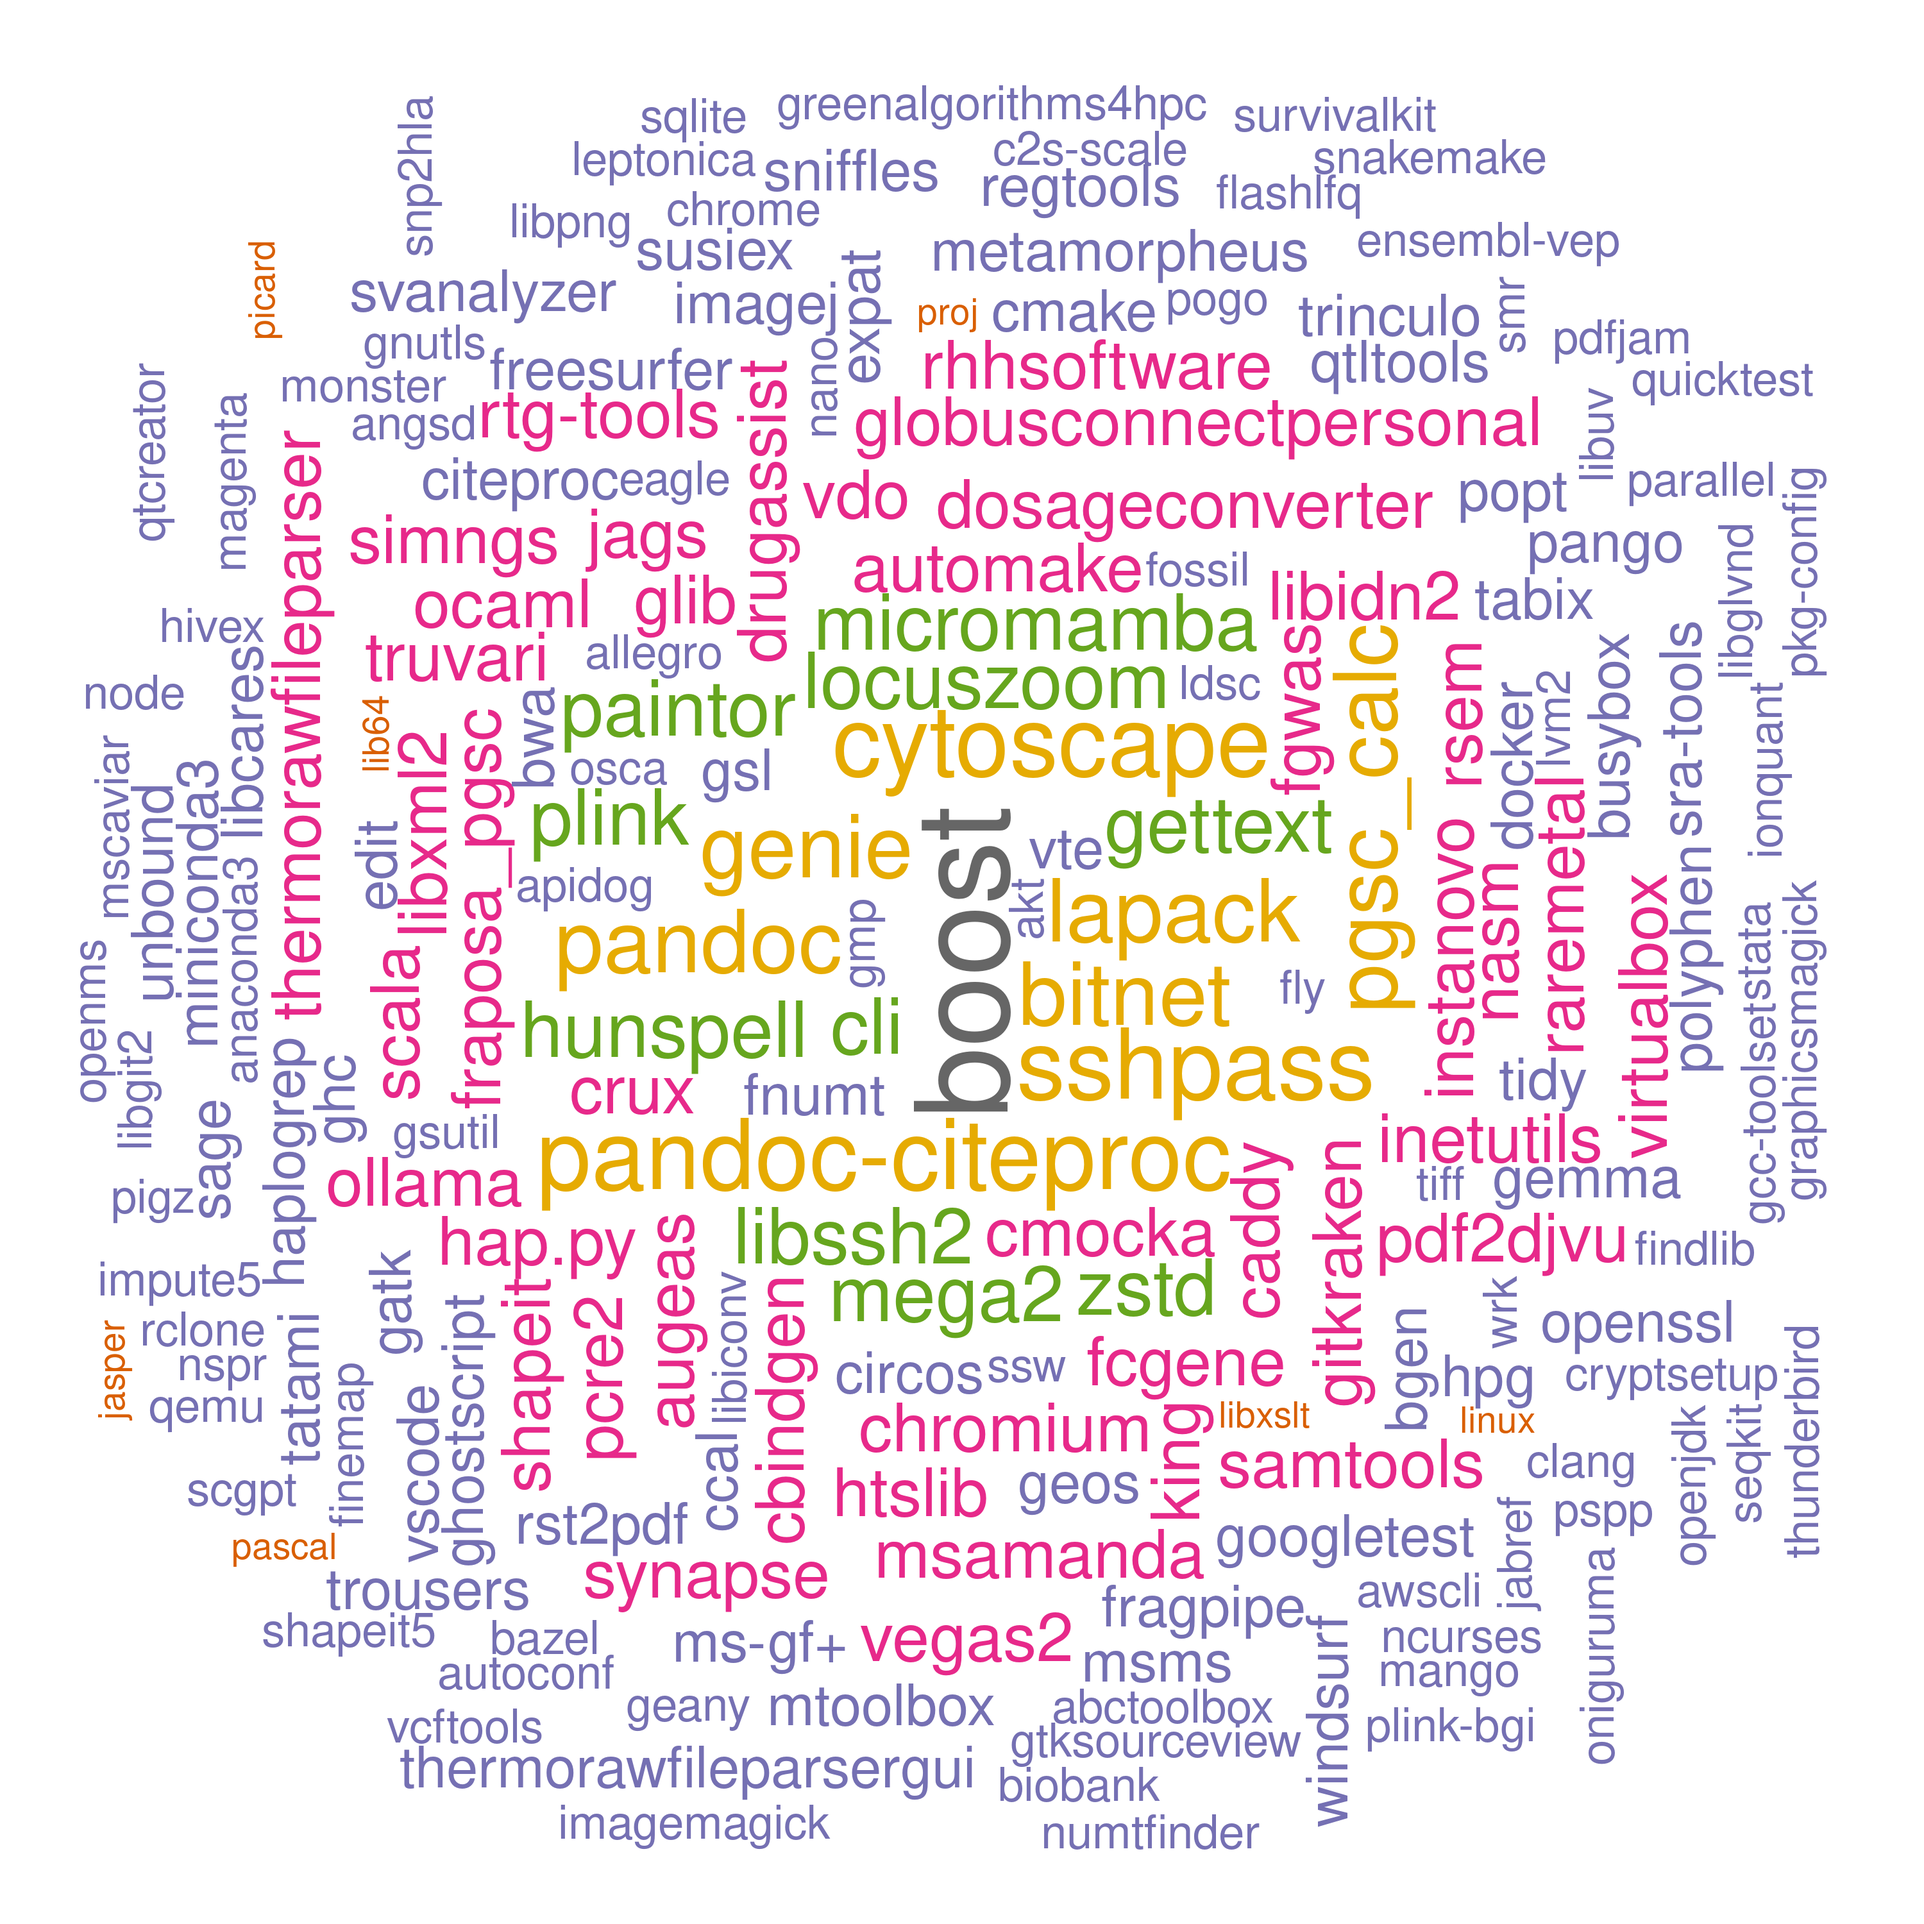
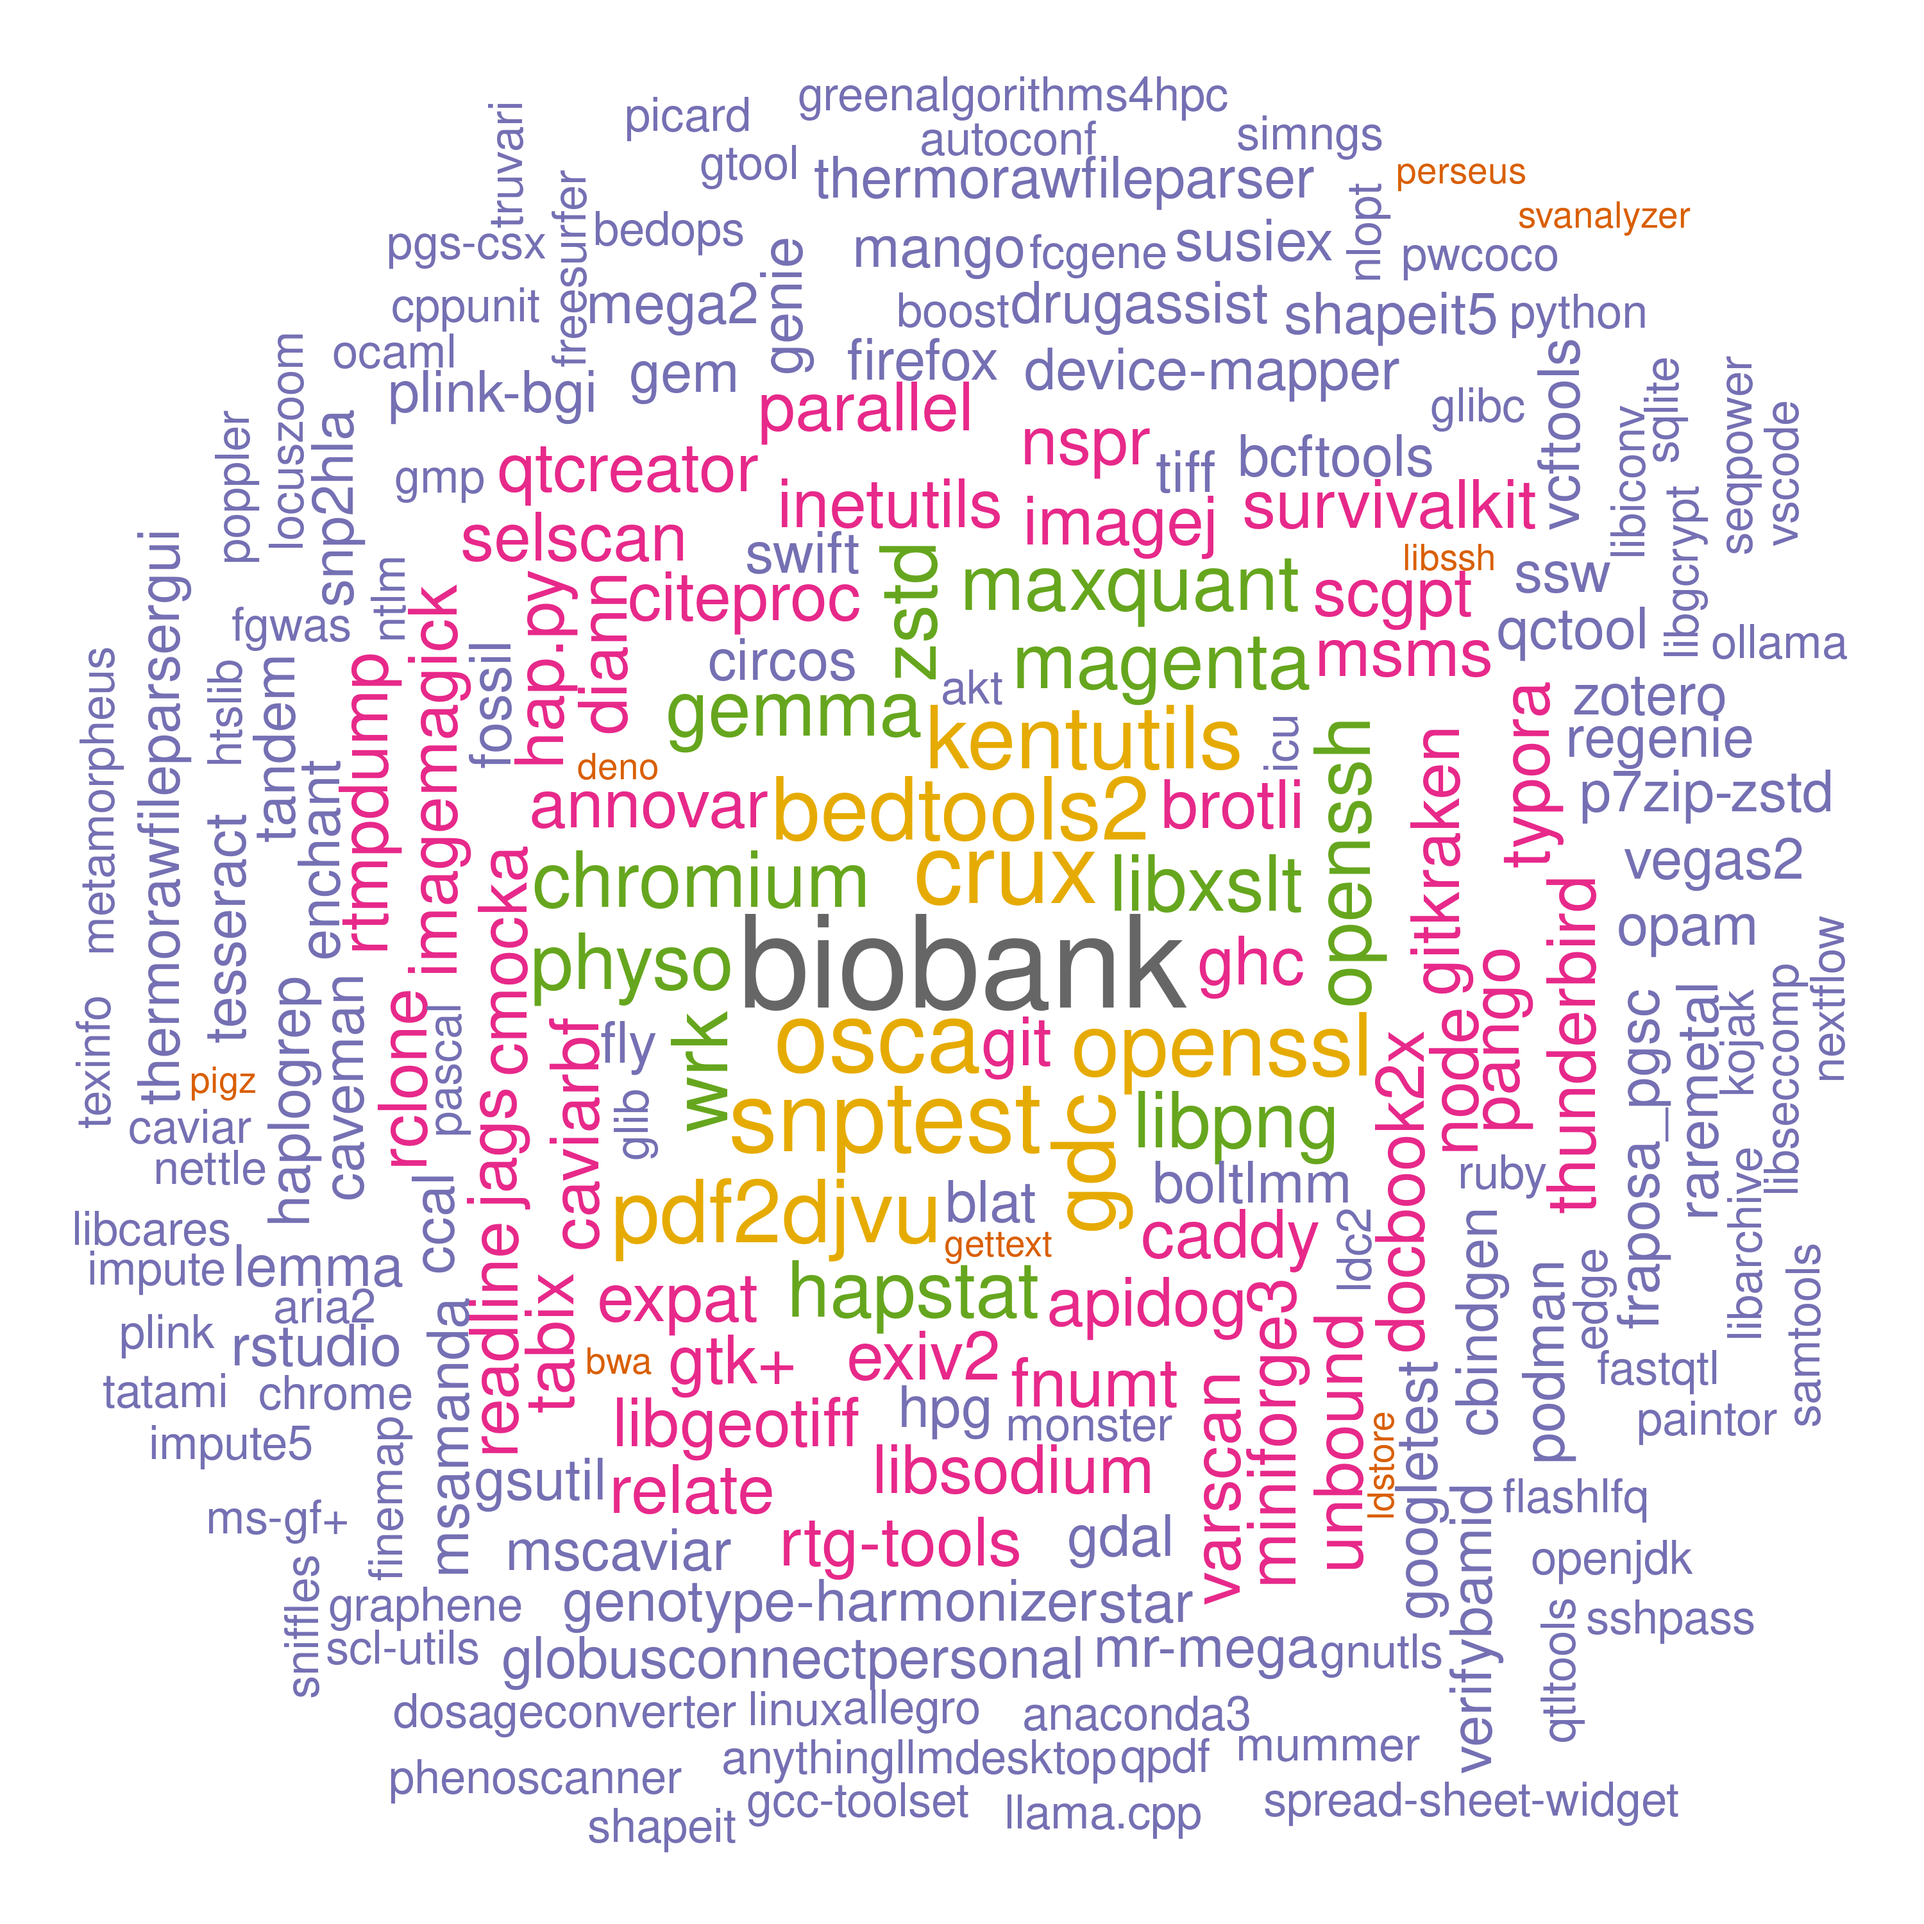
./

Changed region(s): [[0.031, 0.031, 0.961, 0.961]]

diff --git a/systems/ceuadmin.md b/systems/ceuadmin.md
@@ -83,25 +83,25 @@ The current list is as follows,
 [261] "qpdf"                   "qt"                     "qtcreator"              "QTLtools"
 [265] "quarto"                 "quicktest"              "R"                      "raremetal"
 [269] "rclone"                 "readline"               "regenie"                "regtools"
-[273] "RHHsoftware"            "RSEM"                   "rst2pdf"                "rstudio"
-[277] "rtg-tools"              "rtmpdump"               "ruby"                   "rust"
-[281] "sage"                   "samtools"               "Scala"                  "scGPT"
-[285] "scl-utils"              "selscan"                "seqkit"                 "SEQPower"
-[289] "shapeit"                "shapeit5"               "simNGS"                 "singularity"
-[293] "SMR"                    "snakemake"              "sniffles"               "SNP2HLA"
-[297] "snptest"                "spread-sheet-widget"    "spyder"                 "sqlite"
-[301] "sra-tools"              "sshpass"                "ssw"                    "STAR"
-[305] "stata"                  "SurvivalAnalysis"       "SurvivalKit"            "SuSiEx"
-[309] "SVanalyzer"             "Swift"                  "SYMPHONY"               "Synapse"
-[313] "tabix"                  "tandem"                 "tatami"                 "tesseract"
-[317] "texinfo"                "ThermoRawFileParser"    "ThermoRawFileParserGUI" "thunderbird"
-[321] "tidy"                   "tiff"                   "trinculo"               "trousers"
-[325] "truvari"                "Typora"                 "unbound"                "uv"
-[329] "vala"                   "VarScan"                "vcftools"               "vdo"
-[333] "VEGAS2"                 "verifyBamID"            "VirtualBox"             "VSCode"
-[337] "VSCodium"               "vte"                    "Windsurf"               "wine"
-[341] "wrk"                    "xpdf"                   "yaml-cpp"               "Zettlr"
-[345] "Zotero"                 "zstd"
+[273] "relate"                 "RHHsoftware"            "RSEM"                   "rst2pdf"
+[277] "rstudio"                "rtg-tools"              "rtmpdump"               "ruby"
+[281] "rust"                   "sage"                   "samtools"               "Scala"
+[285] "scGPT"                  "scl-utils"              "selscan"                "seqkit"
+[289] "SEQPower"               "shapeit"                "shapeit5"               "simNGS"
+[293] "singularity"            "SMR"                    "snakemake"              "sniffles"
+[297] "SNP2HLA"                "snptest"                "spread-sheet-widget"    "spyder"
+[301] "sqlite"                 "sra-tools"              "sshpass"                "ssw"
+[305] "STAR"                   "stata"                  "SurvivalAnalysis"       "SurvivalKit"
+[309] "SuSiEx"                 "SVanalyzer"             "Swift"                  "SYMPHONY"
+[313] "Synapse"                "tabix"                  "tandem"                 "tatami"
+[317] "tesseract"              "texinfo"                "ThermoRawFileParser"    "ThermoRawFileParserGUI"
+[321] "thunderbird"            "tidy"                   "tiff"                   "trinculo"
+[325] "trousers"               "truvari"                "Typora"                 "unbound"
+[329] "uv"                     "vala"                   "VarScan"                "vcftools"
+[333] "vdo"                    "VEGAS2"                 "verifyBamID"            "VirtualBox"
+[337] "VSCode"                 "VSCodium"               "vte"                    "Windsurf"
+[341] "wine"                   "wrk"                    "xpdf"                   "yaml-cpp"
+[345] "Zettlr"                 "Zotero"                 "zstd"
 ```
 
 These are wrapped up as :star::star::star: **[modules](https://modules.readthedocs.io/en/latest/index.html)** :star::star::star:.
@@ -448,6 +448,7 @@ Further information is avaiiable from **/usr/local/Cluster-Apps/ceuadmin/doc/ceu
     | 2025-09-01 | selscan/2.1                  | Genetics    |
     | ""         | angsd/0.940                  | Genetics    |
     | 2025-09-03 | hapstat/3.0                  | Genetics    |
+    | 2025-09-04 | relate/1.2.3                 | Genetics    |
 
     \* CEU or approved users only -- when not indicated can be found out from the folder associated with a module.
 

diff --git a/systems/setup.md b/systems/setup.md
@@ -477,6 +477,7 @@ All entries are ordered chronologically.
 | 2025-09-01 | selscan/2.1                      | Genetics[^selscan]    |
 | ""         | angsd/0.940                      | Genetics[^angsd]      |
 | 2025-09-03 | hapstat/3.0                      | Genetics[^hapstat]    |
+| 2025-09-04 | relate/1.2.3                     | Genetics[^relate]     |
 
 \* CEU or approved users only -- when not indicated can be found out from the folder associated with a module.
 
@@ -1991,3 +1992,7 @@ They are generated from script [setup.sh](setup.sh),
 [^hapstat]: **hapstat**
 
     See <https://cambridge-ceu.github.io/csd3/applications/hapstat.html>.
+
+[^relate]: **relate**
+
+    See <https://cambridge-ceu.github.io/csd3/applications/relate.html>.

diff --git a/applications/related.md b/applications/related.md
@@ -1,0 +1,16 @@
+---
+sort: 63
+layout: default
+---
+
+# relate
+
+Web, <https://myersgroup.github.io/relate/>
+
+## 1.2.3
+
+Firefox / 142.0 would lose part of the files, and chrome is used instead. Both dynamic and static distributions work well under CSD3.
+
+## Testing
+
+A well-organised `run-relate.sh` can be started from example/ directory.

diff --git a/applications/notes.md b/applications/notes.md
@@ -1,5 +1,5 @@
 ---
-sort: 78
+sort: 79
 ---
 
 # Notes on emsembl-vep

diff --git a/applications/VSCode.md b/applications/VSCode.md
@@ -1,5 +1,5 @@
 ---
-sort: 77
+sort: 78
 ---
 
 # Visual Studio code

diff --git a/applications/SurvivalGWAS_SV.md b/applications/SurvivalGWAS_SV.md
@@ -1,5 +1,5 @@
 ---
-sort: 73
+sort: 74
 ---
 
 # SurvivalGWAS_SV

diff --git a/applications/sra-tools.md b/applications/sra-tools.md
@@ -1,5 +1,5 @@
 ---
-sort: 72
+sort: 73
 ---
 
 # sra-tools

diff --git a/applications/tesseract.md b/applications/tesseract.md
@@ -1,5 +1,5 @@
 ---
-sort: 75
+sort: 76
 ---
 
 # tesseract

diff --git a/applications/SEQPower.md b/applications/SEQPower.md
@@ -1,5 +1,5 @@
 ---
-sort: 67
+sort: 68
 ---
 
 # SEQPower

diff --git a/applications/RStudio.md b/applications/RStudio.md
@@ -1,5 +1,5 @@
 ---
-sort: 64
+sort: 65
 ---
 
 # RStudio

diff --git a/applications/SNPTEST.md b/applications/SNPTEST.md
@@ -1,5 +1,5 @@
 ---
-sort: 71
+sort: 72
 ---
 
 # SNPTEST

diff --git a/applications/selscan.md b/applications/selscan.md
@@ -1,5 +1,5 @@
 ---
-sort: 66
+sort: 67
 ---
 
 # selscan
